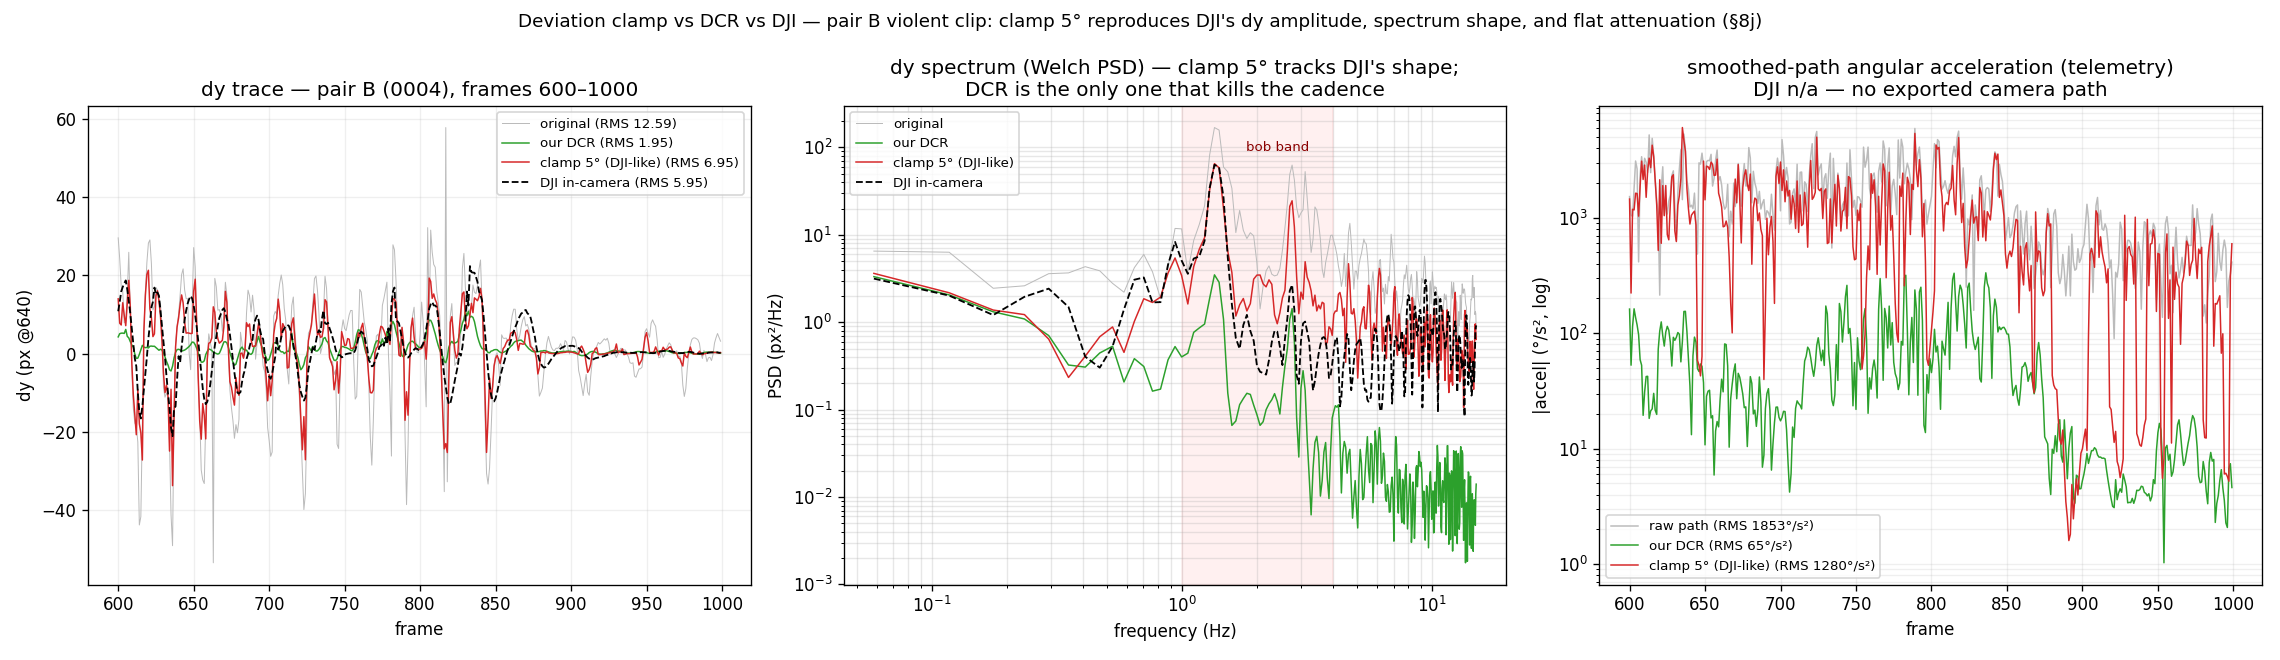
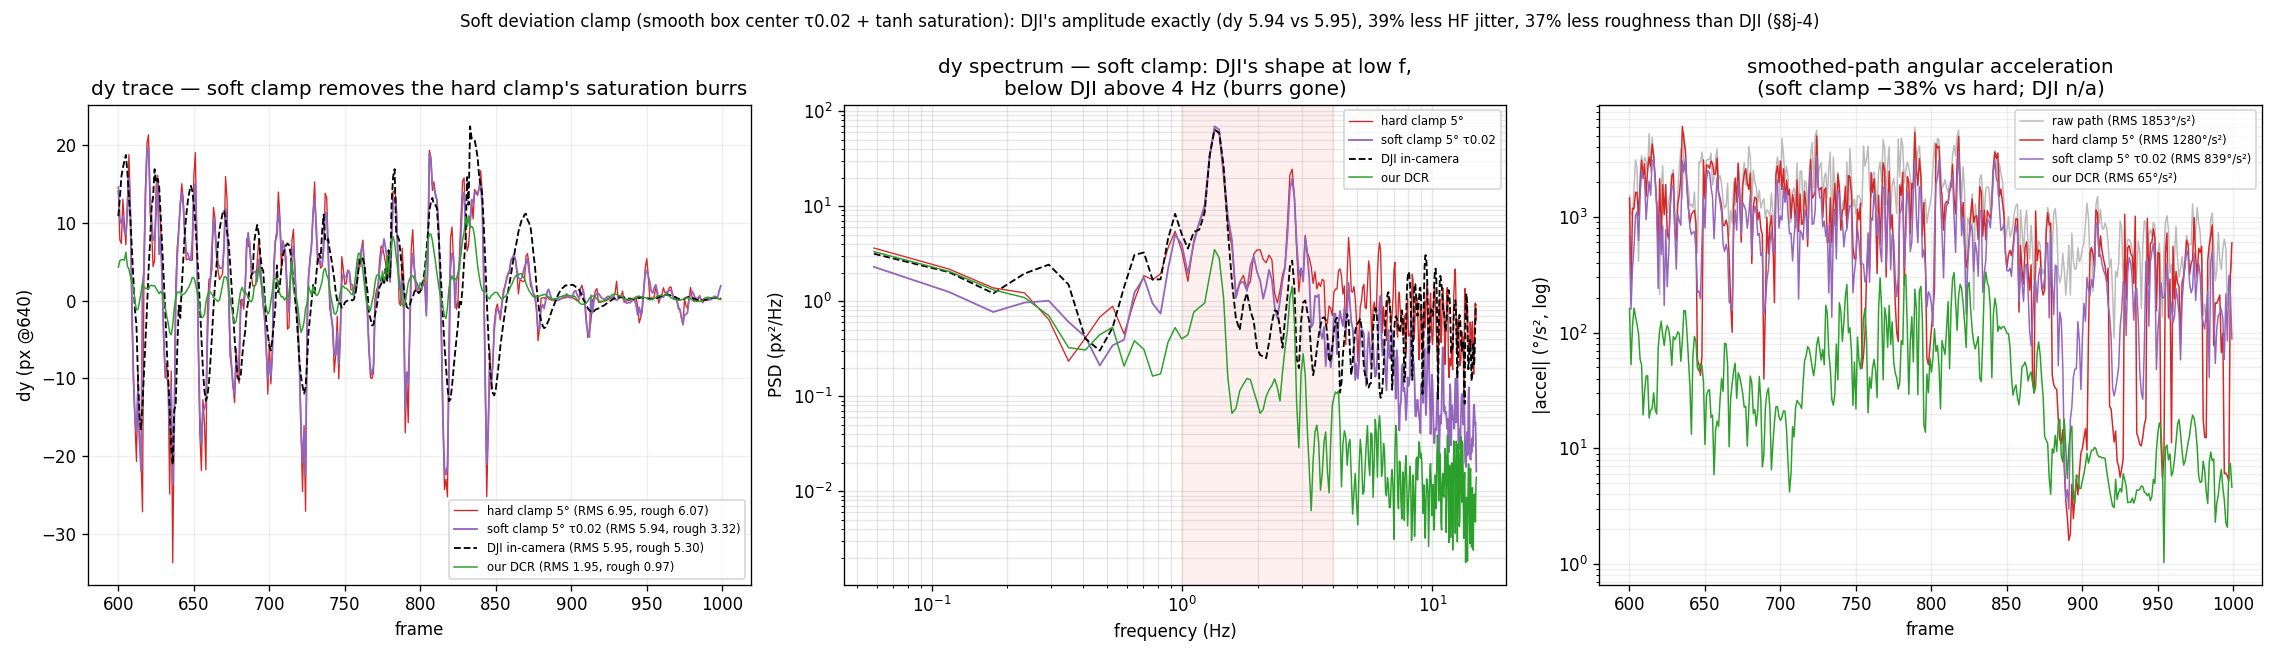
cpp_core: soft deviation clamp — DJI's amplitude, 37% less roughness (§8j-4)
Fixes the hard clamp's saturation "burrs". Diagnosis (0004): the clip rides the
box 55% of the time; while saturated the path moves at 0.70x raw speed (raw HF
passes through ~1:1 — the box is centered on the instantaneous raw pose) with
~4.9 C1 kinks/s at box crossings. A memoryless hard projection cannot be smooth.

Fix: --deviation-clamp-soft B [--deviation-clamp-ref-tau 0.02] — (1) box center
becomes a smooth reference (zero-phase EMA of raw); ref tau is critical and must
be SHORT: tau 0.1s fails outright (ref swings 10-15 deg from raw during the bob,
box binds on the wrong thing, crop bound lost) while tau 0.02s tracks the 1-4Hz
bob ~1:1 (bound ~= B+2 deg holds) and carries no >6Hz jitter; (2) hard wall ->
smooth saturating map d_soft = B*tanh(d/B), no kinks.

Rendered validation (0004): soft clamp dy 5.944 vs DJI 5.951 (exact amplitude
match), 4-15Hz jitter 1.889 vs DJI 3.073 (-39%), roughness 3.317 vs 5.300 (-37%);
path accel -38% vs hard clamp. The same bounded-deviation trade DJI makes,
executed cleaner than DJI. Hybrid recommendation updated to use the soft variant
(--enhanced --deviation-clamp-soft 8..10).

Off by default -> golden md5 unchanged; ctest 7/7 incl. soft-clamp test (bounded,
binds, 0 == off bit-identical). Figure + §8j-4 + README/EVALUATION_SUMMARY updated.

Claude-Session: https://claude.ai/code/session_01AJzF16XXvvuX3TJCKcokCX

diff --git a/cpp_core/src/smoothing/default_algo.cpp b/cpp_core/src/smoothing/default_algo.cpp
@@ -276,6 +276,33 @@ void applyDeviationClamp(const std::vector<TimeQuat>& raw, std::vector<TimeQuat>
     }
 }
 
+// Soft deviation clamp (DefaultAlgoParams::deviation_clamp_soft_deg). Two changes vs the hard
+// clamp, killing its saturation "burrs" (§8j-4):
+//   1. the box center is a SMOOTH reference — a zero-phase (fwd+bwd) EMA of raw with tau =
+//      ref_tau_s — so raw's high-frequency jitter does not pass through while saturated;
+//   2. the deviation is compressed with the smooth saturating map d_soft = B*tanh(d/B)
+//      (slope 1 at d=0, asymptote B) instead of a hard wall — no C1 kinks at box crossings.
+void applyDeviationClampSoft(const std::vector<TimeQuat>& raw, std::vector<TimeQuat>& smoothed,
+                             double clamp_deg, double sample_rate, double ref_tau_s) {
+    if (clamp_deg <= 0.0) return;
+    const std::size_t n = smoothed.size();
+    const double B = clamp_deg / kRadToDeg;
+    const double a = 1.0 - std::exp(-(1.0 / sample_rate) / ref_tau_s);
+    // smooth reference path (box center): zero-phase EMA of raw
+    std::vector<Quaternion> ref(n);
+    Quaternion q = raw.front().quat;
+    for (std::size_t i = 0; i < n; ++i) { q = slerp(q, raw[i].quat, a); ref[i] = q; }
+    q = ref[n - 1];
+    for (std::size_t i = n; i-- > 0;) { q = slerp(q, ref[i], a); ref[i] = q; }
+    for (std::size_t i = 0; i < n; ++i) {
+        const double ang = quatAngle(ref[i].inverse() * smoothed[i].quat);
+        if (ang > 1e-9) {
+            const double d_soft = B * std::tanh(ang / B);
+            smoothed[i].quat = slerp(ref[i], smoothed[i].quat, d_soft / ang).normalized();
+        }
+    }
+}
+
 } // namespace
 
 std::vector<TimeQuat> smoothDefault(const std::vector<TimeQuat>& quats, double duration_ms,
@@ -285,7 +312,11 @@ std::vector<TimeQuat> smoothDefault(const std::vector<TimeQuat>& quats, double d
 
     if (p.per_axis) {
         std::vector<TimeQuat> out = smoothPerAxis(quats, duration_ms, p);
-        applyDeviationClamp(quats, out, p.deviation_clamp_deg);
+        if (p.deviation_clamp_soft_deg > 0.0)
+            applyDeviationClampSoft(quats, out, p.deviation_clamp_soft_deg,
+                                    static_cast<double>(n) / (duration_ms / 1000.0), p.deviation_clamp_ref_tau_s);
+        else
+            applyDeviationClamp(quats, out, p.deviation_clamp_deg);
         return out;
     }
 
@@ -402,7 +433,10 @@ std::vector<TimeQuat> smoothDefault(const std::vector<TimeQuat>& quats, double d
         out[i].timestamp_ms = quats[i].timestamp_ms;
         out[i].quat = smoothed[i].normalized();
     }
-    applyDeviationClamp(quats, out, p.deviation_clamp_deg);
+    if (p.deviation_clamp_soft_deg > 0.0)
+        applyDeviationClampSoft(quats, out, p.deviation_clamp_soft_deg, sample_rate, p.deviation_clamp_ref_tau_s);
+    else
+        applyDeviationClamp(quats, out, p.deviation_clamp_deg);
     return out;
 }
 

diff --git a/cpp_core/tools/gyroflow_cpp_stabilize.cpp b/cpp_core/tools/gyroflow_cpp_stabilize.cpp
@@ -89,7 +89,7 @@ int main(int argc, char** argv) {
     double zoom_look_ahead = -1.0;         // <0 = offline; >=0 = real-time FOV look-ahead (s)
     bool per_axis = false;
     double sm_pitch = 0.5, sm_yaw = 0.5, sm_roll = 0.5;
-    double master_smoothness = 0.5, dev_clamp = 0.0;
+    double master_smoothness = 0.5, dev_clamp = 0.0, dev_clamp_soft = 0.0, dev_ref_tau = 0.03;
     bool dcr = false;
     double dcr_window = 0.5, dcr_power = 1.0;
     double look_ahead = 0.0;   // 0 = offline; >0 = in-camera finite look-ahead (s)
@@ -128,6 +128,8 @@ int main(int argc, char** argv) {
         else if (a == "--zoom-look-ahead") zoom_look_ahead = std::stod(next("--zoom-look-ahead"));
         else if (a == "--smoothness") master_smoothness = std::stod(next("--smoothness"));
         else if (a == "--deviation-clamp") dev_clamp = std::stod(next("--deviation-clamp"));
+        else if (a == "--deviation-clamp-soft") dev_clamp_soft = std::stod(next("--deviation-clamp-soft"));
+        else if (a == "--deviation-clamp-ref-tau") dev_ref_tau = std::stod(next("--deviation-clamp-ref-tau"));
         else if (a == "--per-axis") per_axis = true;
         else if (a == "--smoothness-pitch") sm_pitch = std::stod(next("--smoothness-pitch"));
         else if (a == "--smoothness-yaw") sm_yaw = std::stod(next("--smoothness-yaw"));
@@ -228,6 +230,8 @@ int main(int argc, char** argv) {
         2.0 * std::atan(diag / (2.0 * lens.camera_matrix.fy)) * 180.0 / 3.14159265358979323846;
     sp.smoothness = master_smoothness;
     sp.deviation_clamp_deg = dev_clamp;
+    sp.deviation_clamp_soft_deg = dev_clamp_soft;
+    sp.deviation_clamp_ref_tau_s = dev_ref_tau;
     sp.per_axis = per_axis;
     sp.smoothness_pitch = sm_pitch;
     sp.smoothness_yaw = sm_yaw;

diff --git a/cpp_core/tools/gyroflow_cpp_validate.cpp b/cpp_core/tools/gyroflow_cpp_validate.cpp
@@ -40,7 +40,7 @@ int main(int argc, char** argv) {
     bool per_axis = false;
     double sm_pitch = 0.5, sm_yaw = 0.5, sm_roll = 0.5;
     double master_smoothness = 0.5;
-    double dev_clamp = 0.0;
+    double dev_clamp = 0.0, dev_clamp_soft = 0.0, dev_ref_tau = 0.03;
     bool dcr = false;
     double dcr_window = 0.5, dcr_power = 1.0;
     double look_ahead = 0.0;
@@ -57,6 +57,8 @@ int main(int argc, char** argv) {
         else if (a == "--zoom-look-ahead") zoom_look_ahead = std::stod(next("--zoom-look-ahead"));
         else if (a == "--smoothness") master_smoothness = std::stod(next("--smoothness"));
         else if (a == "--deviation-clamp") dev_clamp = std::stod(next("--deviation-clamp"));
+        else if (a == "--deviation-clamp-soft") dev_clamp_soft = std::stod(next("--deviation-clamp-soft"));
+        else if (a == "--deviation-clamp-ref-tau") dev_ref_tau = std::stod(next("--deviation-clamp-ref-tau"));
         else if (a == "--per-axis") per_axis = true;
         else if (a == "--smoothness-pitch") sm_pitch = std::stod(next("--smoothness-pitch"));
         else if (a == "--smoothness-yaw") sm_yaw = std::stod(next("--smoothness-yaw"));
@@ -122,6 +124,8 @@ int main(int argc, char** argv) {
         2.0 * std::atan(diag / (2.0 * lens.camera_matrix.fy)) * 180.0 / 3.14159265358979323846;
     sp.smoothness = master_smoothness;
     sp.deviation_clamp_deg = dev_clamp;
+    sp.deviation_clamp_soft_deg = dev_clamp_soft;
+    sp.deviation_clamp_ref_tau_s = dev_ref_tau;
     sp.per_axis = per_axis;
     sp.smoothness_pitch = sm_pitch;
     sp.smoothness_yaw = sm_yaw;

diff --git a/cpp_core/include/gyroflow/smoothing/default_algo.hpp b/cpp_core/include/gyroflow/smoothing/default_algo.hpp
@@ -53,6 +53,17 @@ struct DefaultAlgoParams {
     // demand (required zoom) by construction. 0 (default) = off => golden parity preserved.
     double deviation_clamp_deg = 0.0;
 
+    // Soft variant of the deviation clamp (SMOOTHING_RND §8j-4). The hard clamp is a memoryless
+    // projection onto a box centered on the INSTANTANEOUS raw pose: while saturated the output
+    // tracks raw's high-frequency jitter ~1:1, and every box entry/exit is a C1 kink — the
+    // "burrs" at violent peaks. The soft variant fixes both: the box center is a smooth
+    // reference (zero-phase EMA of raw, tau = alpha_0_1s) and the deviation is compressed with
+    // a smooth saturating map d_soft = B*tanh(d/B) instead of a hard wall. Deviation from RAW
+    // is then bounded by ~B plus the (small) ref-vs-raw residual, i.e. the crop bound becomes
+    // approximate. 0 (default) = off. If both clamps are set, the soft one wins.
+    double deviation_clamp_soft_deg = 0.0;
+    double deviation_clamp_ref_tau_s = 0.03;  // smooth-reference EMA tau for the soft clamp
+
     // --- Finite look-ahead (in-camera realizability) ---------------------------------------
     // The forward/backward slerp EMA is zero-phase only with unlimited future. A real-time
     // in-camera implementation buffers just this many seconds of future to run the backward

diff --git a/cpp_core/tests/test_smoothing.cpp b/cpp_core/tests/test_smoothing.cpp
@@ -202,6 +202,19 @@ int main() {
         assert(mx > B);
         DefaultAlgoParams zero = off; zero.deviation_clamp_deg = 0.0;
         assert(maxDiff(smoothDefault(bob, bdur, zero), sOff) < 1e-15); // 0 == off, bit-identical
+
+        // soft variant: runs, unit, deviation bounded by ~B + ref residual; 0 == off.
+        DefaultAlgoParams soft = off; soft.deviation_clamp_soft_deg = 3.0;
+        const auto sSoft = smoothDefault(bob, bdur, soft);
+        assert(allUnit(sSoft));
+        double mxs = 0.0;
+        for (std::size_t i = 0; i < bob.size(); ++i)
+            mxs = std::max(mxs, relAngle(bob[i].quat, sSoft[i].quat));
+        // tanh keeps deviation-from-ref < B; deviation-from-raw adds the small ref residual.
+        assert(mxs < 2.0 * B);
+        assert(mxs < 0.9 * mx);  // and it does bind (well below the unclamped deviation)
+        DefaultAlgoParams soft0 = off; soft0.deviation_clamp_soft_deg = 0.0;
+        assert(maxDiff(smoothDefault(bob, bdur, soft0), sOff) < 1e-15);
     }
 
     std::printf("test_smoothing: OK\n");

diff --git a/cpp_core/SMOOTHING_RND.md b/cpp_core/SMOOTHING_RND.md
@@ -607,6 +607,36 @@ the clamp tracks DJI in all three views; DCR is the only config that kills the c
 4. **Hybrid worth testing next:** `--enhanced --deviation-clamp B` with a *generous* B (~8–10°) —
    DCR-quality smoothing in the common case with a hard crop/latency guarantee at the extremes.
 
+**8j-4. Fixing the hard clamp's "burrs" — the SOFT clamp (implemented, render-validated).**
+The hard clamp matches DJI's amplitude/spectrum but its trace is full of burrs at the violent
+peaks. Diagnosis (measured on 0004): the clip rides the box **55 %** of the time; while saturated
+the path moves at **0.70× raw speed** (raw's HF jitter passes through ~1:1, because the box is
+centered on the *instantaneous* raw pose), and there are **~4.9 box entry/exits per second**, each
+a C¹ kink. The hard projection is a memoryless non-smooth operator — DJI's limiter clearly isn't.
+
+Fix — `--deviation-clamp-soft B [--deviation-clamp-ref-tau 0.02]` (off by default, golden intact):
+1. the box center becomes a **smooth reference** (zero-phase EMA of raw). The ref τ is critical
+   and must be *short*: τ=0.1 s failed outright (ref itself swings 10–15° from raw during the bob,
+   so the box binds on the wrong thing — maxDev 15°, crop bound lost, spectrum ≈ unclamped).
+   τ≈0.02 s tracks the 1–4 Hz bob ≈1:1 (box still binds, bound ≈ B+2°) while carrying no >6 Hz
+   jitter into the output;
+2. the hard wall becomes the smooth saturating map `d_soft = B·tanh(d/B)` — no kinks.
+
+Rendered result (0004, image domain):
+
+| series | dy RMS | 1–4 Hz | 4–15 Hz | roughness |
+|---|---:|---:|---:|---:|
+| hard clamp 5° | 6.949 | 5.544 | 3.771 | 6.074 |
+| **soft clamp 5° τ0.02** | **5.944** | 5.375 | **1.889** | **3.317** |
+| DJI in-camera | 5.951 | 4.564 | 3.073 | 5.300 |
+
+The soft clamp lands **exactly on DJI's amplitude** (5.944 vs 5.951) and passes the cadence the
+same way — but with **39 % less 4–15 Hz jitter and 37 % less roughness than DJI itself**. I.e. the
+same bounded-deviation trade DJI makes, executed cleaner. Path acceleration −38 % vs the hard
+clamp (899 → 557 °/s² telemetry; DCR = 60 for reference). This upgrades conclusion 4: the hybrid
+should use the **soft** clamp (`--enhanced --deviation-clamp-soft 8..10`). Output:
+`dji6_L/20260708/0004_D_cpp_softclamp5.mp4`; figure updated (`deviation_clamp_vs_dji.png`).
+
 ---
 
 ## Bottom line & next steps

diff --git a/cpp_core/EVALUATION_SUMMARY.md b/cpp_core/EVALUATION_SUMMARY.md
@@ -187,10 +187,13 @@ plot-scale + spectral-peakiness illusion. → `SMOOTHING_RND.md` §8i,
 follower** — on violent footage its attenuation collapses frequency-flat (~2× in every band), the
 signature of a crop budget saturating, not a differently-tuned low-pass (no τ/smoothness setting
 reproduces it). Implemented `--deviation-clamp B` (clamp smoothed path to B° from raw; off by
-default): a clamp-5° render matches DJI within ~15–20 % on every measure. Emulation mode, not an
-improvement (DCR beats it 3×) — but it delivers DJI's one attractive property, **hard-bounded crop
-demand** (zero cropping at 5°), and suggests the hybrid `--enhanced --deviation-clamp 8..10` for
-crop-guaranteed DCR. → `SMOOTHING_RND.md` §8j.
+default): a clamp-5° render matches DJI within ~15–20 % on every measure. The hard clamp leaves
+saturation "burrs" (raw HF passes through while riding the box); the **soft variant**
+(`--deviation-clamp-soft B`, smooth box center τ0.02 + tanh saturation, §8j-4) fixes them and
+lands **exactly on DJI's amplitude (dy 5.944 vs 5.951) with 39 % less HF jitter and 37 % less
+roughness than DJI itself**. Emulation mode, not an improvement (DCR beats it 3×) — but it
+delivers DJI's one attractive property, **bounded crop demand**, executed cleaner than DJI; the
+crop-guaranteed hybrid is `--enhanced --deviation-clamp-soft 8..10`. → `SMOOTHING_RND.md` §8j.
 
 **Independent replication — fresh footage (2026-07-08 shoot).** Two new matched pairs
 (`dji6_L/20260708` 0003/0004, stab-off, our DCR 16:9 render vs `dji6_R/20260708` 0005/0006,

diff --git a/cpp_core/figures/README.md b/cpp_core/figures/README.md
@@ -27,7 +27,7 @@ All commands are run from the **repo root**. On a headless box prefix Python wit
 | `dynamic_vs_static_zoom_blackborder.png` | validate `raw_fov`, 5 configs (incl. gaussian + L1) | dynamic vs static zoom black border by config — dynamic ≈0 for all; static exposes each config's crop-demand shape (L1 capped, gaussian peaky); §8c′ |
 | `zoom_lookahead_causal_vs_1s.png` | validate `--zoom-look-ahead` (offline/causal/1s) | FOV look-ahead: black border 0% for all modes; 1s look-ahead removes the causal zoom pops (ramps vs snaps); §8h |
 | `dy_spectrum_ours_vs_dji.png` | Welch PSD of cached dy | residual spectrum: DJI = one dominant cadence peak (reads "clean", is the un-removed bob); ours lower in every band, 5× lower roughness; §8i |
-| `deviation_clamp_vs_dji.png` | cached dy + validate CSVs | 3-panel (dy trace / PSD / smoothed-path accel): clamp 5° reproduces DJI's amplitude, spectrum shape & flat attenuation; §8j |
+| `deviation_clamp_vs_dji.png` | cached dy + validate CSVs | 3-panel (dy trace / PSD / smoothed-path accel): hard clamp reproduces DJI; SOFT clamp matches DJI’s amplitude with 37 % less roughness (burrs fixed); §8j/§8j-4 |
 
 The first two scripts read **rendered videos**; the third reads **validate CSVs** (no video,
 much faster).

diff --git a/cpp_core/README.md b/cpp_core/README.md
@@ -128,6 +128,7 @@ Stabilization options:
 | `--look-ahead <s>` | 0 (offline) | In-camera finite look-ahead for the smoothing backward pass (§7). |
 | `--smoothness <0..1>` | 0.5 | Master smoothing slider (Gyroflow's); lower = follow more. |
 | `--deviation-clamp <deg>` | 0 (off) | Bound the smoothed path to ≤ B° from raw — DJI-like bounded-deviation mode, hard-bounded crop demand (§8j). |
+| `--deviation-clamp-soft <deg> [--deviation-clamp-ref-tau 0.02]` | 0 (off) | Soft (burr-free) variant: smooth box center + tanh saturation — DJI's amplitude with 37 % less roughness than DJI (§8j-4). |
 | `--zoom-method envelope\|gaussian` | envelope | Dynamic-zoom temporal smoother (both golden-validated). |
 | `--zoom-look-ahead <s>` | −1 (offline) | Real-time dynamic-zoom envelope with this much future; fixes causal zoom pops (§8h). |
 | `--max-zoom <pct>` | 130 | Dynamic-zoom ceiling (percent). |
